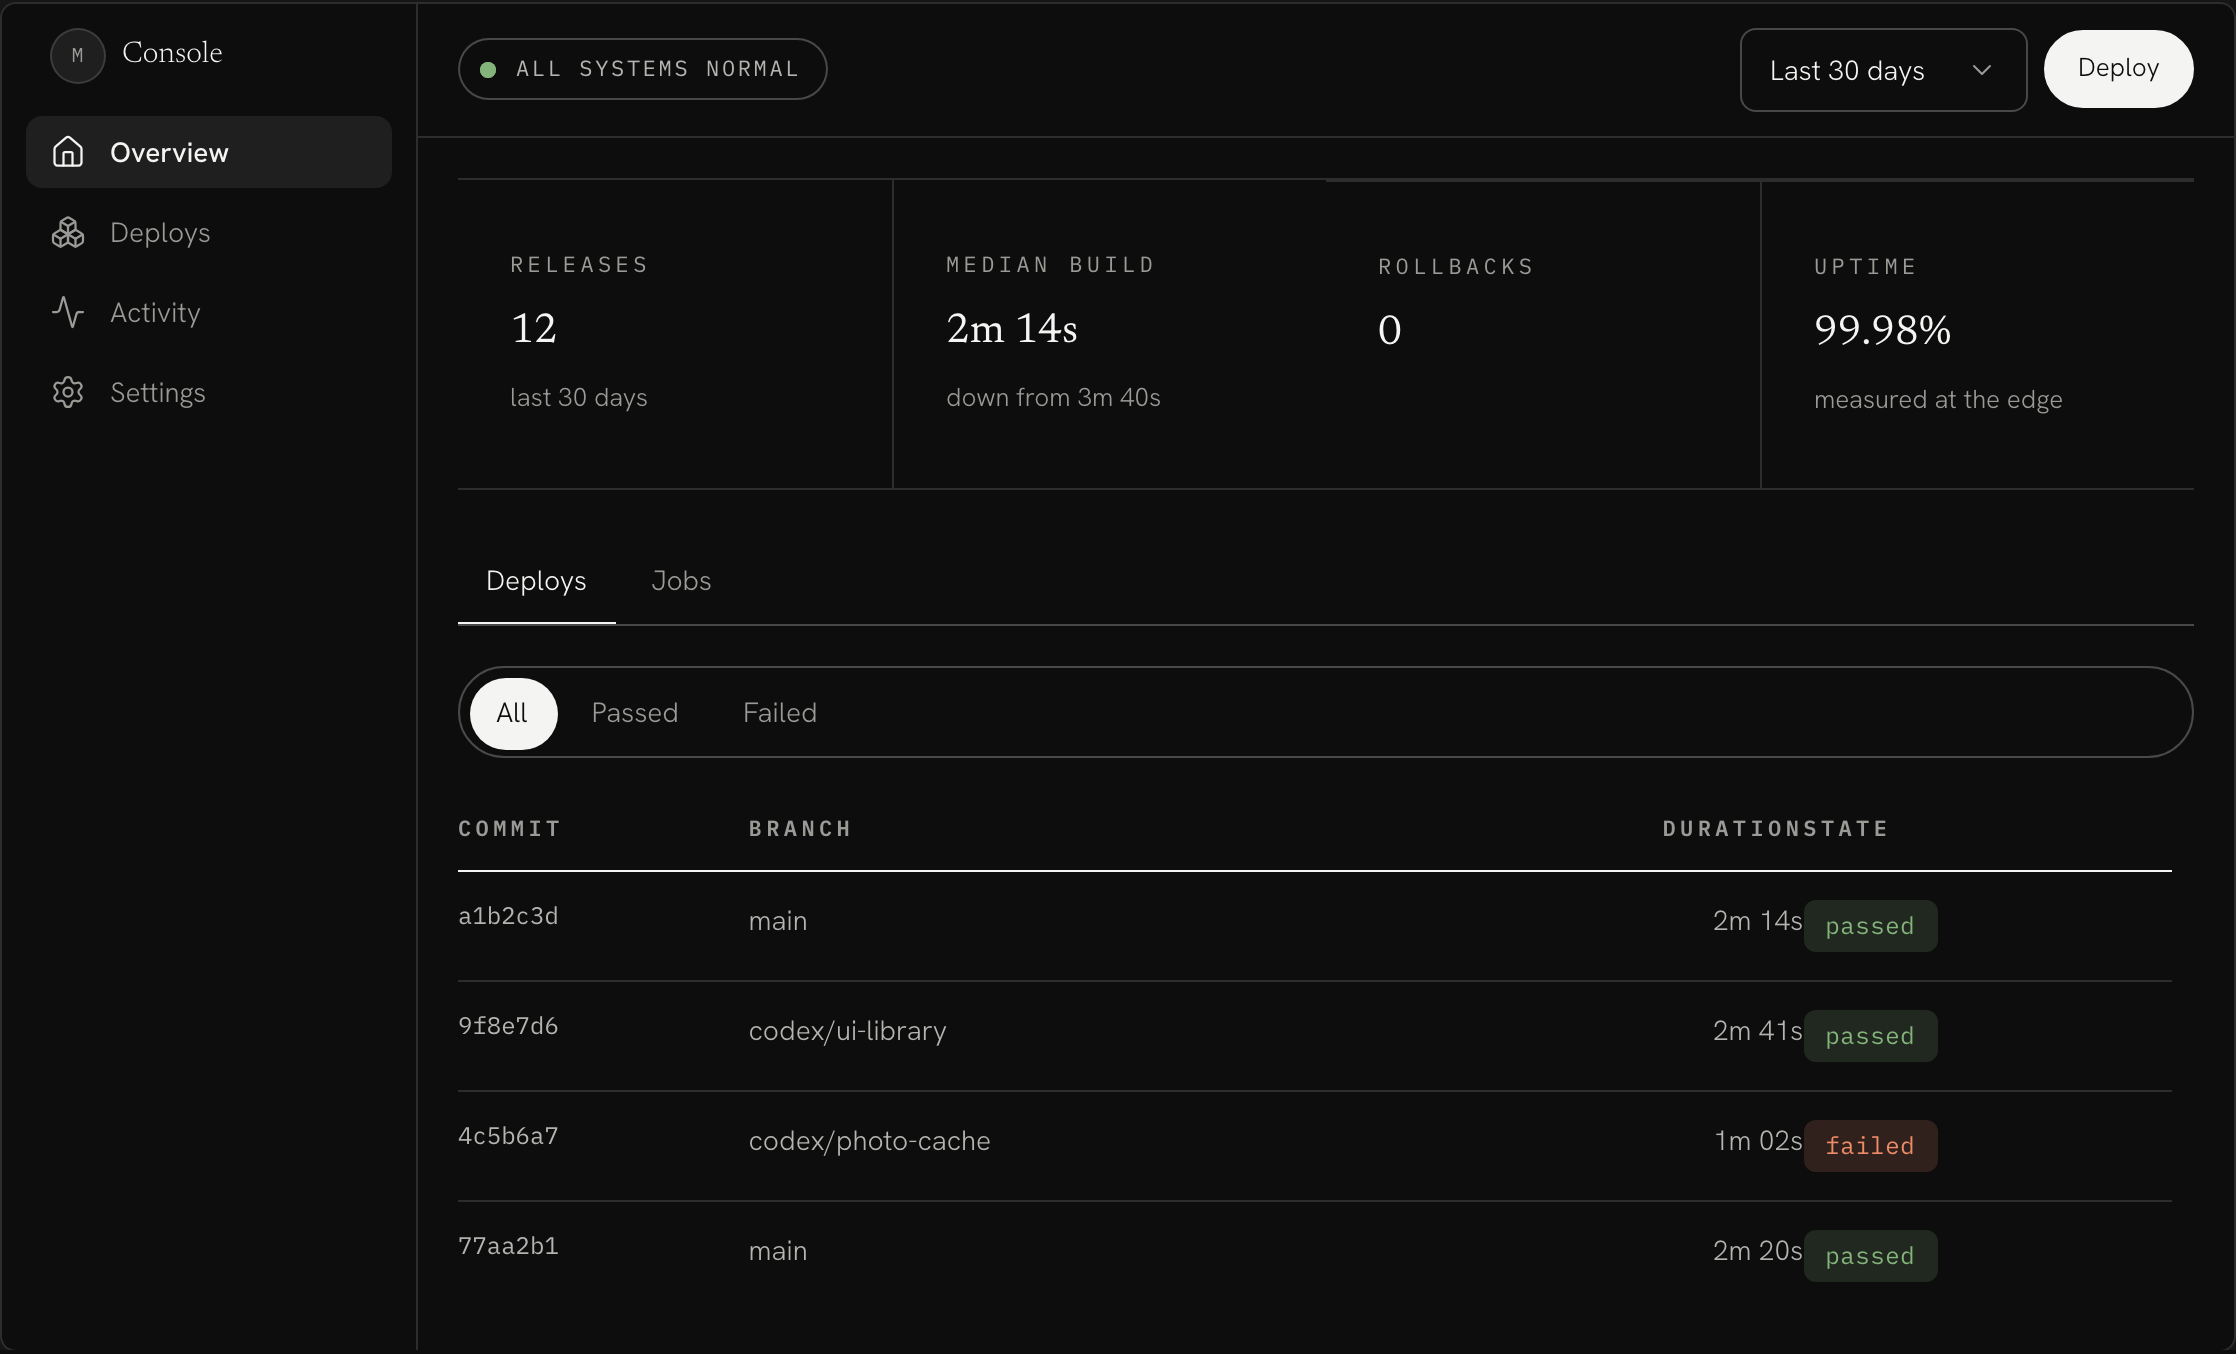
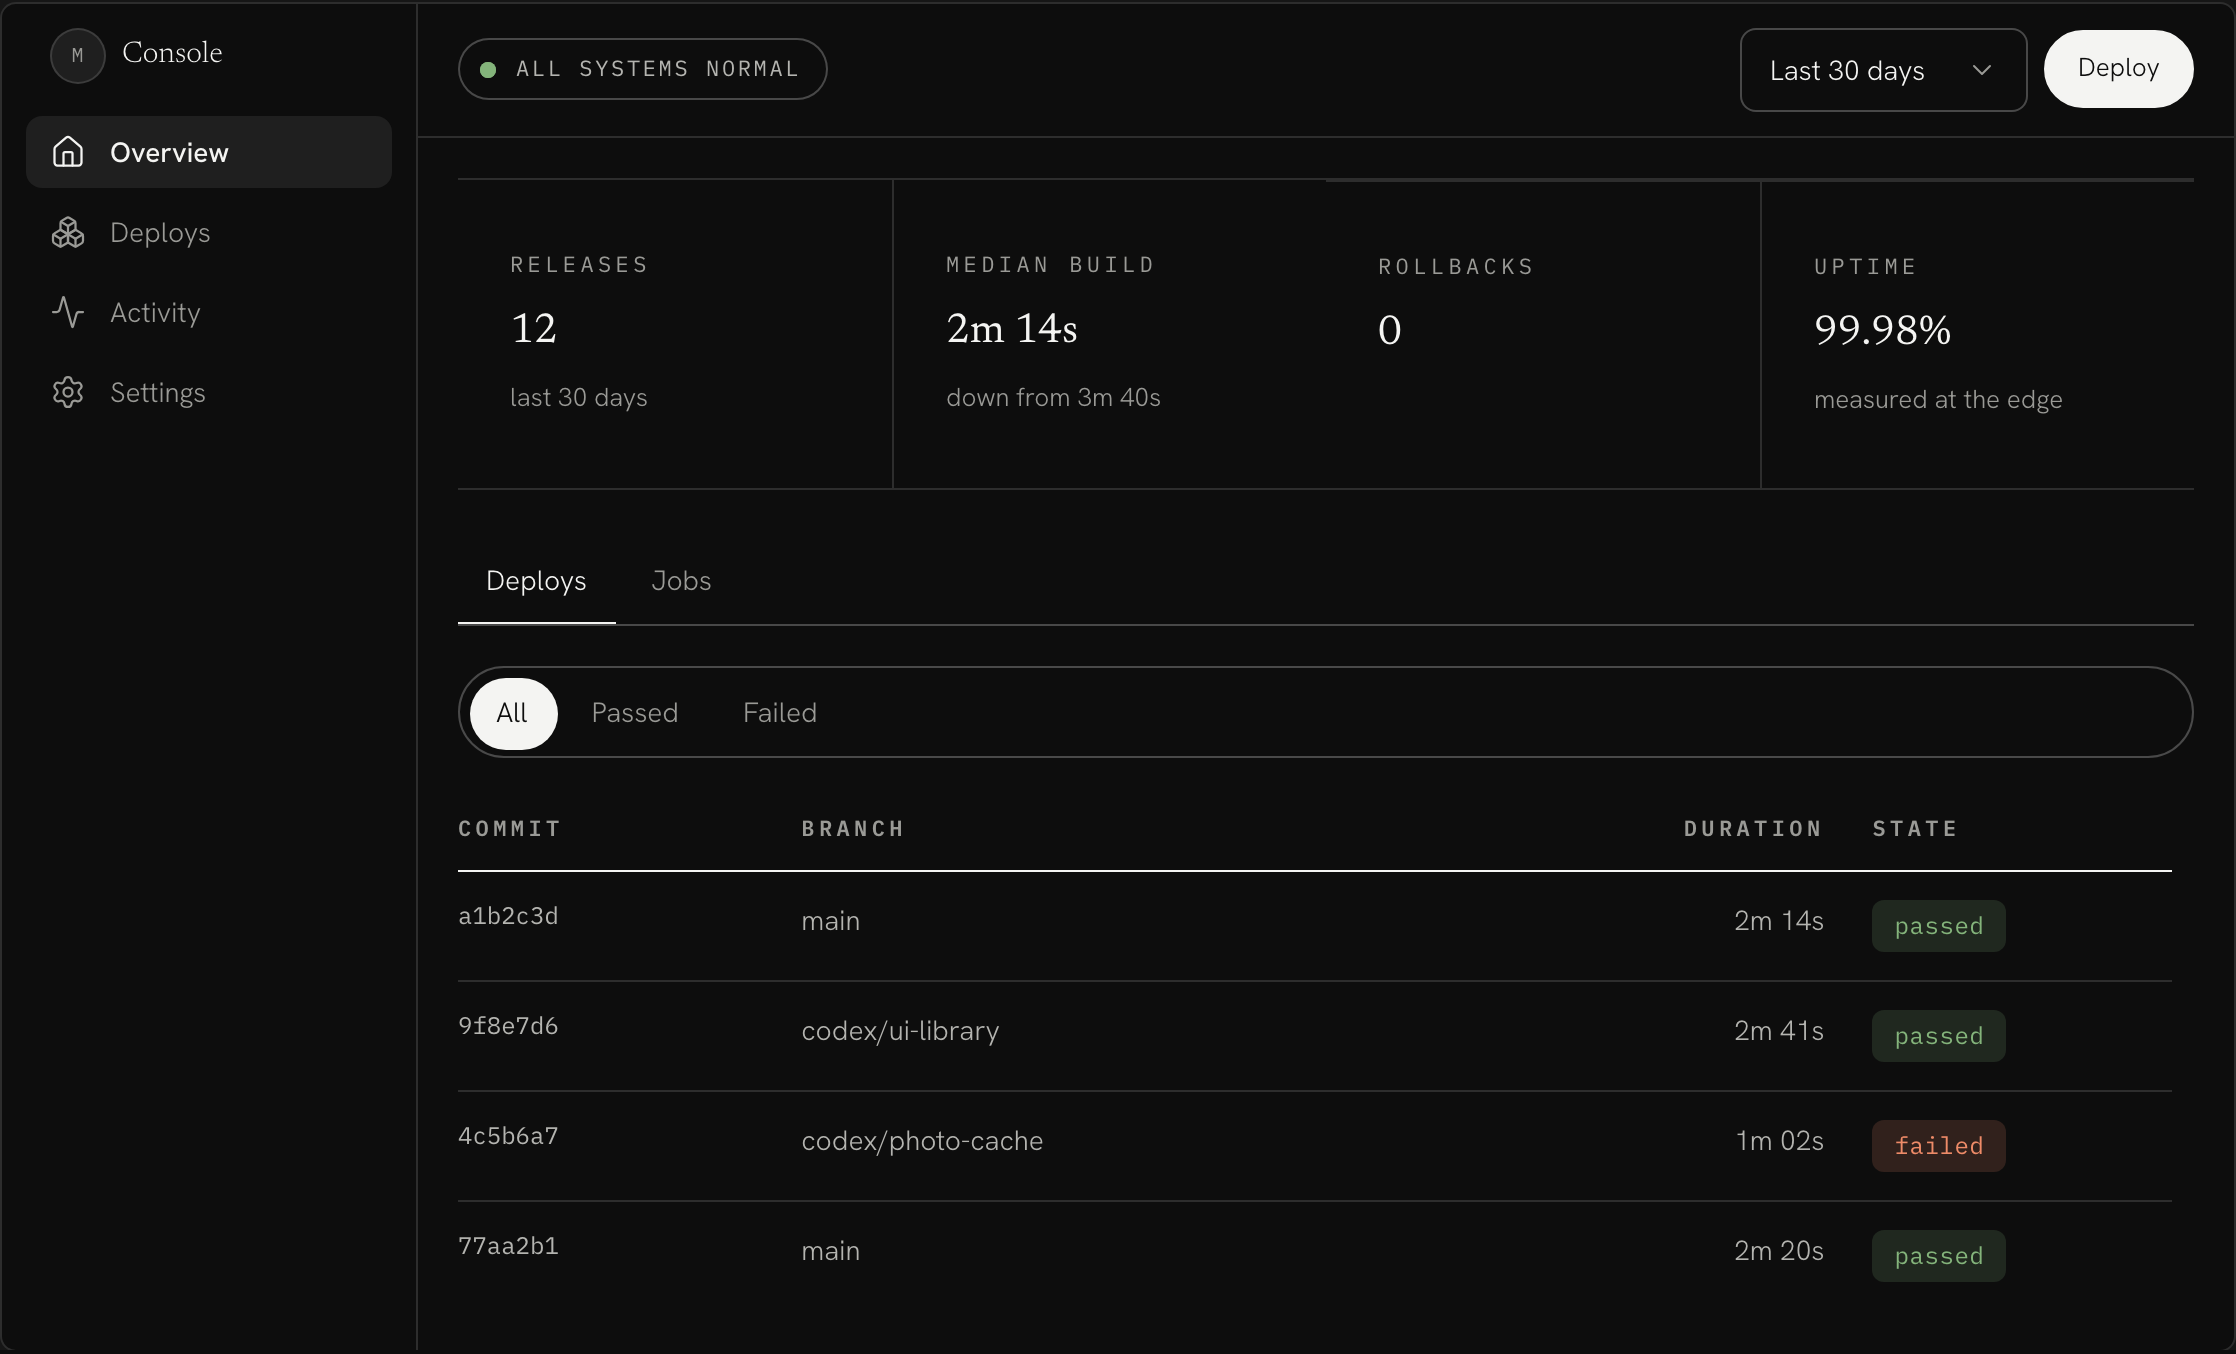
fix(design): give the table's padding token a unit (#28)
`--table-pad-x` was `0` rather than `0px`, so `calc(var(--table-pad-x, 0px) + 1.5rem)` resolved to `calc(0 + 1.5rem)` — invalid at computed-value time, which discards the declaration instead of falling back. Every non-last cell of every `borders="rows"` or `borders="none"` table lost its inline-end padding, rendering an `align="end"` column against its neighbour.

Adds a test that nothing a `calc()` reads may be a bare zero, and reshoots the README preview, which photographs the affected table.

diff --git a/packages/design/src/styles/__tests__/tokens.test.ts b/packages/design/src/styles/__tests__/tokens.test.ts
@@ -1,5 +1,5 @@
 import { describe, expect, it } from 'vitest'
-import { readFileSync } from 'node:fs'
+import { readFileSync, readdirSync, statSync } from 'node:fs'
 import { dirname, join } from 'node:path'
 import { fileURLToPath } from 'node:url'
 
@@ -9,6 +9,23 @@ const read = (file: string) => readFileSync(join(HERE, '..', file), 'utf8')
 const TOKENS = read('tokens.css')
 const SEMANTIC = read('semantic.css')
 const FONTS = read('fonts.css')
+
+const COMPONENTS = join(HERE, '..', '..', 'components')
+
+/** Every component source, as `[file, text]`. */
+function componentSources(): [string, string][] {
+  return readdirSync(COMPONENTS)
+    .filter((entry) => statSync(join(COMPONENTS, entry)).isDirectory())
+    .map((dir) => [`${dir}/${dir}.tsx`, join(COMPONENTS, dir, `${dir}.tsx`)] as const)
+    .filter(([, path]) => {
+      try {
+        return statSync(path).isFile()
+      } catch {
+        return false
+      }
+    })
+    .map(([file, path]) => [file, readFileSync(path, 'utf8')])
+}
 
 /** Declarations as `[name, value]`, comments stripped. */
 function declarations(css: string): [string, string][] {
@@ -81,5 +98,61 @@ describe('the semantic layer', () => {
       .flatMap(([, value]) => [...value.matchAll(/var\(\s*(--[\w-]+)/g)].map((m) => m[1]!.slice(2)))
       .filter((name) => !primitives.has(name) && !aliases.has(name))
     expect([...new Set(dangling)]).toEqual([])
+  })
+})
+
+describe('lengths inside calc()', () => {
+  /**
+   * A unitless zero is not a length, and `calc()` will not take one.
+   *
+   * This is the same IACVT trap the font stacks above guard, reached from the
+   * other side. `--table-pad-x` was `0`, which is a perfectly good value for
+   * `padding-inline: var(--table-pad-x)` — and makes `calc(0 + 1.5rem)` invalid
+   * at computed-value time the moment a second rule adds to it. The declaration
+   * is discarded whole rather than falling back, so the table lost its column
+   * gutter everywhere and nothing said so: no build error, no console warning,
+   * and an `align="end"` column simply touching its neighbour.
+   *
+   * Anything a `calc()` reads must therefore carry a unit, fallbacks included.
+   */
+  const CALC = /calc\((?:[^()]|\([^()]*\))*\)/g
+  const VAR = /var\(\s*(--[\w-]+)\s*(?:,\s*([^()]*?)\s*)?\)/g
+  const UNITLESS_ZERO = /^[+-]?0+(?:\.0+)?$/
+
+  /** Every `calc()` in the system, with the file that writes it. */
+  function calcExpressions(): [string, string][] {
+    const sources: [string, string][] = [
+      ['tokens.css', TOKENS],
+      ['semantic.css', SEMANTIC],
+      ...componentSources(),
+    ]
+    return sources.flatMap(([file, text]) =>
+      [...text.replace(/\/\*[\s\S]*?\*\//g, '').matchAll(CALC)].map(
+        (match) => [file, match[0]] as [string, string],
+      ),
+    )
+  }
+
+  it('reads no token that is declared as a bare zero', () => {
+    const declared = new Map(declarations(TOKENS))
+    const offenders = calcExpressions().flatMap(([file, expression]) =>
+      [...expression.matchAll(VAR)]
+        .map((match) => match[1]!.slice(2))
+        .filter((name) => UNITLESS_ZERO.test(declared.get(name) ?? ''))
+        .map((name) => `${file}: ${expression} reads --${name}: ${declared.get(name)}`),
+    )
+    expect(offenders).toEqual([])
+  })
+
+  it('writes no bare zero as an inline fallback', () => {
+    // `var(--x, 0)` is discarded exactly like `var(--x)` pointing at a bare
+    // zero — and it is the harder one to spot, because it looks like a default
+    // that makes the calc safe.
+    const offenders = calcExpressions().flatMap(([file, expression]) =>
+      [...expression.matchAll(VAR)]
+        .filter((match) => match[2] !== undefined && UNITLESS_ZERO.test(match[2]))
+        .map((match) => `${file}: ${expression} falls back to ${match[2]}`),
+    )
+    expect(offenders).toEqual([])
   })
 })

diff --git a/packages/design/src/styles/tokens.css b/packages/design/src/styles/tokens.css
@@ -249,7 +249,10 @@
      row is neither a control nor a field — it is a line of text with a rule
      under it, and it tightens on its own axis. */
   --table-pad-y: 0.875rem;
-  --table-pad-x: 0;
+  /* `0px`, not `0`. The cell rule adds to this inside a calc, and a unitless
+     zero makes `calc(0 + 1.5rem)` invalid at computed-value time — the whole
+     declaration is dropped and every column loses its gutter in silence. */
+  --table-pad-x: 0px;
 
   /* ─── Motion ─── */
   --ease: cubic-bezier(0.2, 0.7, 0.3, 1);

diff --git a/.changeset/table-cell-gutter.md b/.changeset/table-cell-gutter.md
@@ -1,0 +1,14 @@
+---
+'@misoto22/design': patch
+---
+
+Restore the table's column gutter, which a unitless zero had been silently
+eating.
+
+`--table-pad-x` was `0` rather than `0px`. The cell rule adds to it inside a
+calc, so it resolved to `calc(0 + 1.5rem)` — invalid at computed-value time,
+which drops the whole declaration instead of falling back. Every non-last cell
+of every `borders="rows"` or `borders="none"` table therefore had no
+`padding-inline-end` at all, and an `align="end"` column butted straight against
+its neighbour. The ruled variants were unaffected, because they set the variable
+to `0.75rem` and a unit came with it.
